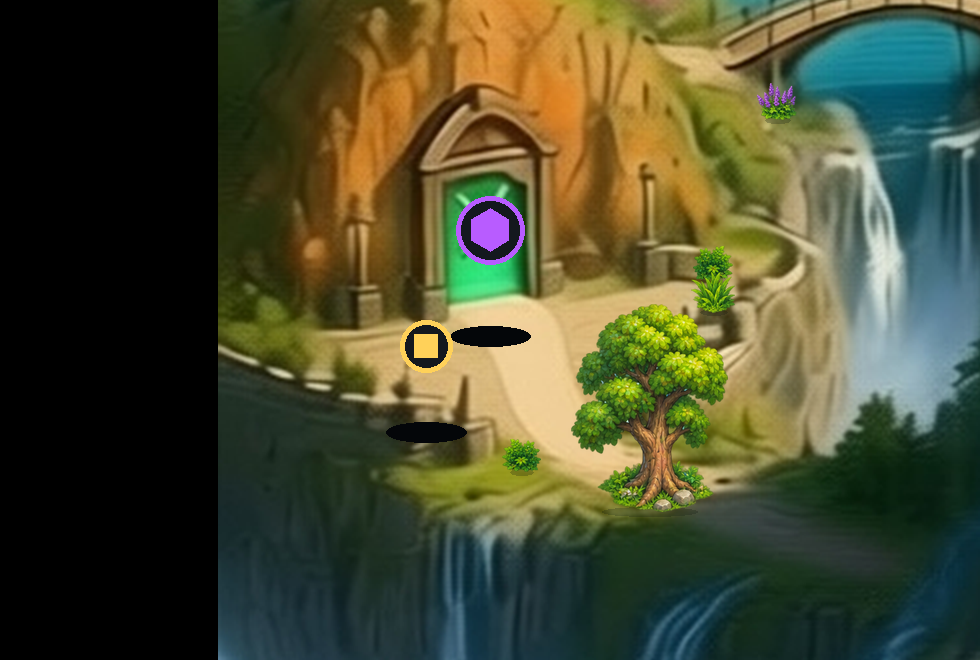
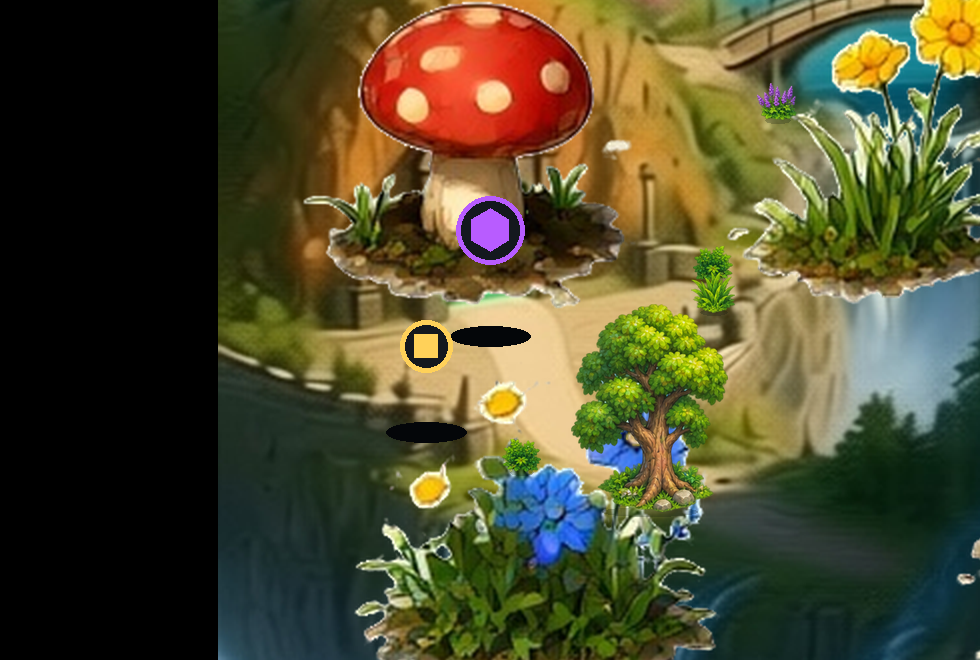
V114 (lumière/atmosphère/détails) : BoardLight + micro-VFX + overlays peints Sylve & Cimes
- BoardLight (statique, z=5, allégé en Économie) : teinte chaude, taches de
  lumière au sol, ombres de contact sous les arbres 'over', rayons de soleil
  aux lisières, vignette radiale
- micro-VFX : étincelles sur les médaillons POI, FxFlash à la récolte
- clé 'detail' dans les planches v2 : overlay PNG transparent peint par-dessus
  (Sylvestre_v2_detail.png, Cimes_detail.png générés par IA + détourage par
  saturation via tools/chroma_key_overlay.py, QC couverture/composantes)
- pipeline décors étendue à la Cimes (kinds Montagne, biome-aware)
- previews : Examples/sylve_v2_decor_preview + Examples/cimes_v2_preview
- tests : test_sylve_v2_decor couvre Sylve + Cimes (invariants, surfaces peintes,
  overlay, BoardLight)

diff --git a/prototype/zimut/tools/gen_sylve_v2_decor.py b/prototype/zimut/tools/gen_sylve_v2_decor.py
@@ -30,10 +30,20 @@ ROOT = Path(__file__).resolve().parent.parent
 BOARDS = ROOT / "data" / "boards"
 SEED = 114
 
-# kind -> poids relatif (petits décors de sol, cf. SpriteDecor.GROUND)
-GROUND_KINDS = [("grass", 3), ("flowers", 2), ("mushrooms", 1)]
-# grands arbres de premier plan (cf. SpriteDecor.OBSTACLES / SPRITES)
-OVER_KINDS = [("big_tree", 4), ("pine", 4), ("tree", 2)]
+# kind -> poids relatif, selon la zone (cf. AdventureTerrain.GROUND_DECOR / OBSTACLES)
+KINDS_BY_ZONE = {
+    "foret_sylve": ([("grass", 3), ("flowers", 2), ("mushrooms", 1)],
+                    [("big_tree", 4), ("pine", 4), ("tree", 2)]),
+    "montagne_pics": ([("snow_mound", 3), ("grass", 3), ("log", 1), ("stakes", 1)],
+                      [("pine", 5), ("rock_snow", 3), ("crystal", 1)]),
+}
+
+
+def kinds_for(name: str):
+    for prefix, kinds in KINDS_BY_ZONE.items():
+        if name.startswith(prefix):
+            return kinds
+    return KINDS_BY_ZONE["foret_sylve"]
 
 DECOR_DENSITY = {"grass": 0.30, "shade": 0.38, "other": 0.10, "sand": 0.05,
                  "rock": 0.0, "water": 0.0, "snow": 0.0}
@@ -89,6 +99,7 @@ def main() -> None:
     pois = [tuple(int(v) for v in k.split(",")) for k in d.get("pois", {}).keys()]
 
     rng = random.Random(SEED)
+    ground_kinds, over_kinds = kinds_for(name)
     cls = {}
     std = {}
     for y in range(rows):
@@ -115,8 +126,8 @@ def main() -> None:
                 if near_poi(c, POI_CLEAR_DECOR) or chebyshev(c, start) <= START_CLEAR:
                     continue
                 if rng.random() < DECOR_DENSITY.get(t, 0.0):
-                    kinds = GROUND_KINDS
-                    if t == "shade":  # sous les arbres : plus de champignons
+                    kinds = ground_kinds
+                    if t == "shade" and name.startswith("foret_sylve"):  # sous les arbres : plus de champignons
                         kinds = [("grass", 2), ("flowers", 1), ("mushrooms", 3)]
                     decor["%d,%d" % c] = pick_weighted(rng, kinds)
             else:
@@ -129,7 +140,7 @@ def main() -> None:
                 if near_poi(c, POI_CLEAR_OVER) or chebyshev(c, start) <= START_CLEAR:
                     continue
                 if rng.random() < OVER_DENSITY:
-                    over["%d,%d" % c] = pick_weighted(rng, OVER_KINDS)
+                    over["%d,%d" % c] = pick_weighted(rng, over_kinds)
 
     d["decor"] = {k: decor[k] for k in sorted(decor, key=lambda s: tuple(int(v) for v in s.split(",")))}
     d["over"] = {k: over[k] for k in sorted(over, key=lambda s: tuple(int(v) for v in s.split(",")))}

diff --git a/prototype/zimut/tools/chroma_key_overlay.py b/prototype/zimut/tools/chroma_key_overlay.py
@@ -1,0 +1,27 @@
+#!/usr/bin/env python3
+"""Détourage d'un overlay de détails généré par IA (fond blanc uni / voile clair)
+en PNG transparent, par saturation : le fond peu saturé devient alpha 0.
+
+Usage : python3 tools/chroma_key_overlay.py <entree.jpg> <sortie.png> <largeur> <hauteur>
+"""
+import sys
+
+import numpy as np
+from PIL import Image
+from scipy import ndimage as ndi
+
+src, dst, W, H = sys.argv[1], sys.argv[2], int(sys.argv[3]), int(sys.argv[4])
+im = Image.open(src).convert("RGB").resize((W, H), Image.LANCZOS)
+arr = np.asarray(im).astype(float)
+mx = arr.max(axis=2)
+mn = arr.min(axis=2)
+sat = np.where(mx > 0, (mx - mn) / np.maximum(mx, 1.0), 0.0)
+alpha = np.clip((sat - 0.045) / 0.07, 0.0, 1.0)
+alpha[alpha < 0.2] = 0.0
+alpha *= alpha
+out = np.dstack([arr, (alpha * 255).astype(np.uint8)]).astype(np.uint8)
+Image.fromarray(out, "RGBA").save(dst)
+a = np.asarray(Image.open(dst))[..., 3]
+lab, n = ndi.label(a > 128)
+big = float(ndi.sum(a > 128, lab, range(1, n + 1)).max()) / a.size if n else 0.0
+print("%s : couverture %.1f%%, composantes %d, plus grosse %.2f%%" % (dst, 100 * (a > 10).mean(), n, 100 * big))

diff --git a/prototype/zimut/tools/preview_sylve_v2.py b/prototype/zimut/tools/preview_sylve_v2.py
@@ -121,6 +121,11 @@ def main() -> None:
     d = json.loads((BOARDS / (name + ".json")).read_text(encoding="utf-8"))
     img = Image.open(ROOT / str(d["image"]).replace("res://", "")).convert("RGBA")
     base = img.resize((int(img.width * IMAGE_SCALE), int(img.height * IMAGE_SCALE)), Image.LANCZOS)
+    # V114 : couche de détails peints (clé "detail", fond transparent) au-dessus de la planche
+    if d.get("detail"):
+        det = Image.open(ROOT / str(d["detail"]).replace("res://", "")).convert("RGBA")
+        det = det.resize(base.size, Image.LANCZOS)
+        base.alpha_composite(det)
     sprites = load_sprites_table()
     decor = {tuple(int(v) for v in k.split(",")): v for k, v in d.get("decor", {}).items()}
     over = {tuple(int(v) for v in k.split(",")): v for k, v in d.get("over", {}).items()}

diff --git a/prototype/zimut/AVENTURE.md b/prototype/zimut/AVENTURE.md
@@ -248,6 +248,21 @@ Test : `tests/test_walk_continu.gd`.
 > « Économie » via `GfxQuality.low()`), pour ne jamais redessiner tout le plateau
 > à chaque frame.
 
+### Lumière, atmosphère et détails peints (V114)
+
+- `BoardLight` (z=5, statique, un seul redraw) au-dessus de toute carte 2D : teinte
+  globale chaude, **taches de lumière** au sol, **ombres de contact renforcées** sous
+  les arbres de premier plan, **rayons de soleil** aux lisières (clé `over`), vignette
+  radiale ; allégé en qualité « Économie » ;
+- micro-VFX : **étincelles** autour des médaillons de POI (absentes en Économie),
+  **flash** à la récolte d'une trouvaille (`FxFlash`) ; particules ambiantes
+  (lucioles/pollen) déjà présentes via `SceneryAmbient` ;
+- clé `"detail"` dans une planche : PNG transparent peint par-dessus l'illustration
+  (détails de sol générés par IA + détourage par saturation, `tools/chroma_key_overlay.py`)
+  — `Sylvestre_v2_detail.png` (Forêt) et `Cimes_detail.png` (Montagne) ;
+- pipeline décors étendue à la **Cimes** (`montagne_pics_v2`, kinds Montagne) ;
+- prévisualisations : `tools/preview_sylve_v2.py` (Sylve + Cimes).
+
 ## Déplacement et lisibilité (V10)
 
 - **Appui tactile** : un premier appui sur une case affiche le trajet et le nombre de pas ; un second appui sur la même case lance la marche. À la souris, un clic suffit (le survol montre déjà le trajet).
